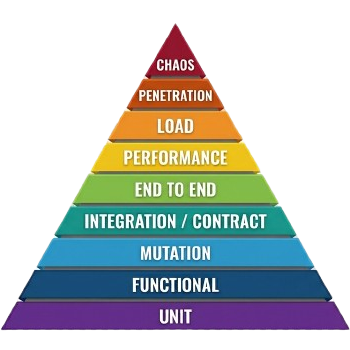
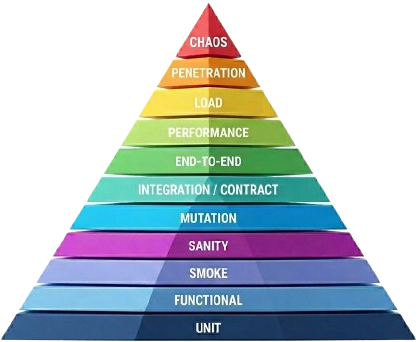
docs: add Testing pyramid and Ring deployment blog posts and update todo list

diff --git a/Ring deployment/index.md b/Ring deployment/index.md
@@ -1,0 +1,51 @@
+# Ring deployment
+- [What is ring deployment?](#what-is-ring-deployment)
+- [Why use ring deployment?](#why-use-ring-deployment)
+- [Key Concepts of Ring Deployment](#key-concepts-of-ring-deployment)
+- [Ring deployment vs Blue-Green deployment](#ring-deployment-vs-blue-green-deployment)
+- [Best practices for ring deployment](#best-practices-for-ring-deployment)
+- [Reference](#reference)   
+
+## What is ring deployment
+
+Ring deployment is a gradual software release strategy where a new version is rolled out to different regions and environments in a specific order (rings), allowing for progressively wider exposure.
+Usually applied in distributed microservices architectures, this approach helps minimize the blast radius of potential issues.
+
+## Why use ring deployment
+
+- Reduce risk
+- Feedback and validation
+- Fully control rollout order and strategy
+
+## Key Concepts of Ring Deployment
+
+1. **Rings (or Stages)**: Regions and environments are divided into rings, with each ring representing a sequential stage of the rollout.
+For example, the first ring might be the developer environment and a QA environment; the second ring could be an automation environment for end-to-end tests; the third ring might be an integration environment for a small group of external users; and the final ring is the full production environment.
+2. **Gradual Rollout**: Unlike a "big bang" deployment where the new version is released to all users simultaneously, ring deployment releases the update incrementally.
+Between rings, automated gates (or manual approvals) decide whether to proceed based on health metrics and test results.
+This controlled exposure allows teams to monitor application health and gather feedback before committing to a full-scale release.
+3. **Rollback Capability**: A critical component of ring deployment is the ability to quickly roll back to the previous stable version if issues are detected.
+Since changes are introduced in stages, rolling back only affects users in the current ring, making it far less disruptive than a full-scale rollback.
+4. **Automated Testing**: Before promoting a service to the next ring, you should run a suite of tests that guarantees the change hasn't introduced regressions.
+Recommended tests include: unit, functional, smoke, integration, end-to-end, and contract tests.
+
+## Ring deployment vs Blue-Green deployment
+
+While both strategies aim to minimize downtime, they differ in traffic management.
+Blue-Green deployment maintains two identical environments (Blue and Green) and switches 100% of traffic at once.
+Ring deployment is more granular, rolling out to subsets of environments over time.
+While Blue-Green can be resource-intensive (requiring double the infrastructure), Ring deployment often leverages existing multi-region/multi-environment setups to transition versions progressively.
+
+## Best practices for ring deployment
+
+1. **Automation** - Use automated end-to-end tests and health checks. If a test fails, the rollout should stop immediately.
+2. **Quick Rollback** - Ensure the process for reverting to a previous version is fast and reliable, Support manual overrides for hotfixes when necessary.
+3. **Continuous Monitoring** - Closely monitor performance, error rates, and latency as the update reaches each new ring.
+4. **Communication** - Keep stakeholders and users informed about the rollout status and potential impacts.
+5. **Documentation** - Maintain records of the rollout schedule, metrics monitored, and post-mortem notes for any issues encountered.
+
+## Reference
+
+- [MS Ring Deployment](https://microsoft.github.io/PowerApps-TestEngine/context/ring-deployment-model/)
+- [Atlassian Ring Deployment](https://blog.atlan.com/engineering/ring-deployment-releases/)
+- [Blue-Green Deployment](https://en.wikipedia.org/wiki/Blue%E2%80%93green_deployment)

diff --git a/Testing pyramid/index.md b/Testing pyramid/index.md
@@ -5,6 +5,8 @@
 - [Types of tests](#types-of-tests)
   - [Unit testing](#unit-testing)
   - [Functional testing](#functional-testing)
+  - [Smoke testing](#smoke-testing)
+  - [Sanity testing](#sanity-testing)
   - [Mutation testing](#mutation-testing)
   - [Integration testing](#integration-testing)
   - [Contract testing](#contract-testing)
@@ -52,6 +54,22 @@ These are the fastest to execute, and you are expected to have the most of them.
 Similar to unit testing, validates entire application flows while mocking all external dependencies, focusing purely on verifying functional business logic.
 
 - **Measurement:** **Requirement Coverage** — ensures every business rule is mapped to a test case.
+- **Quality Indicator:** All "happy paths" and common edge cases are validated against the specification.
+
+### Smoke testing
+In comparison to unit and functional tests, smoke tests are feature-based.
+They consist of a smaller suite of tests that guarantees core feature functionality.
+Smoke tests often use stubbed external dependencies that simulate the real world rather than mocking in total isolation.
+They are typically run by developers during local development and in CI/CD pipelines after deployment to validate that the build is stable.
+
+- **Measurement:** **Feature Coverage** — ensures every feature is working as expected.
+- **Quality Indicator:** All "happy paths" and common edge cases are validated against the specification.
+
+### Sanity testing
+Cherry-picking a subset of critical unit, functional, and smoke tests, bundled into a sanity suite that runs faster than running all of the unit, functional and smoke tests.
+It is typically used to verify that specific bug fixes or changes work as intended.
+
+- **Measurement:** **Feature Coverage** — ensures every feature is working as expected.
 - **Quality Indicator:** All "happy paths" and common edge cases are validated against the specification.
 
 ### Mutation testing
@@ -109,6 +127,12 @@ The practice of intentionally killing services and dependencies during runtime, 
 - **Measurement:** **Availability %** and **Recovery Time Objective (RTO)**.
 - **Quality Indicator:** The system stays online or self-heals automatically without manual intervention when a dependency fails.
 
+> [!NOTE]
+> Unit, functional, smoke and mutation testing should indicate regression in development.
+> Sanity testing should indicate regression in CICD before deployment.
+> Integration, contract and E2E testing should indicate regression in runtime after deployment.
+> Load and performance testing should indicate degradation in runtime after deployment.
+
 ## Recommended programs and tools
 
 - **Coverage:** Tools like [JaCoCo](https://www.jacoco.org/jacoco/) (Java), [coverage.py](https://coverage.readthedocs.io/) (Python) and [pytest-cov](https://pytest-cov.readthedocs.io/en/latest/) (Python) provide detailed line and branch coverage reports.
@@ -133,3 +157,5 @@ The practice of intentionally killing services and dependencies during runtime, 
 - [Pact](https://docs.pact.io/)
 - [Locust](https://locust.io/)
 - [Chaos monkey](https://netflix.github.io/chaosmonkey/)
+- [Smoke test](https://en.wikipedia.org/wiki/Smoke_testing_(software))
+- [Sanity test](https://en.wikipedia.org/wiki/Sanity_check)

diff --git a/todo.md b/todo.md
@@ -18,7 +18,7 @@
 - little big endian,
 - queues and when (also queues as DB),
 - Win vs Linux memory,
-- When and why k8s and docker/podman,
+- Containerization,
 - C.R.U.D,
 - ODataV4,
 - reflection,
